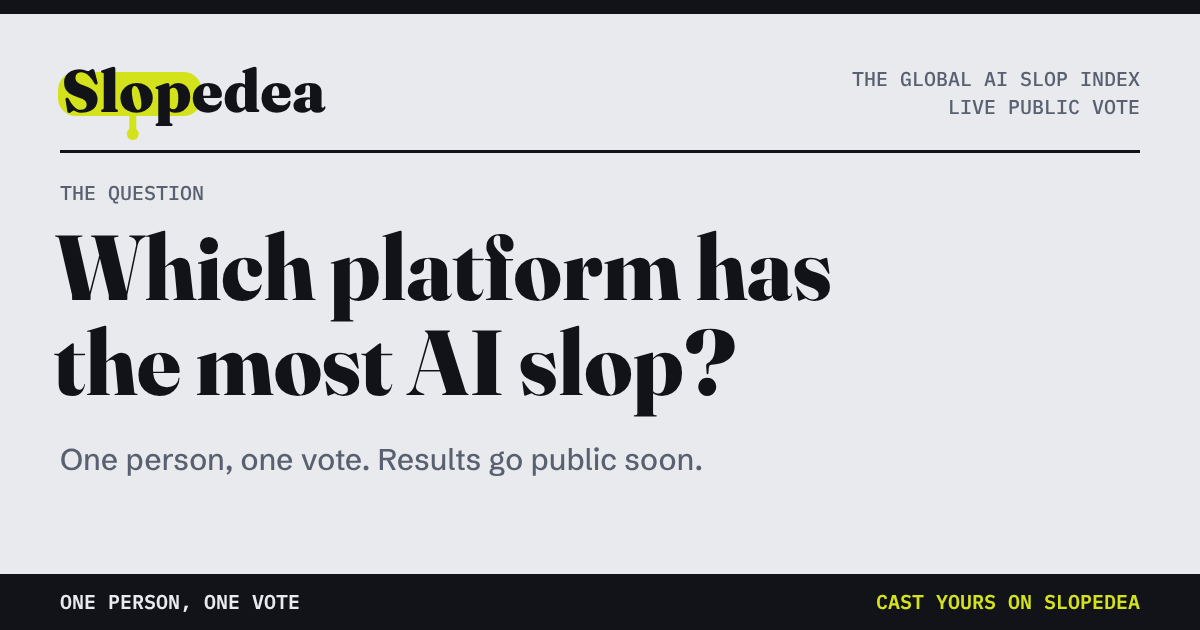
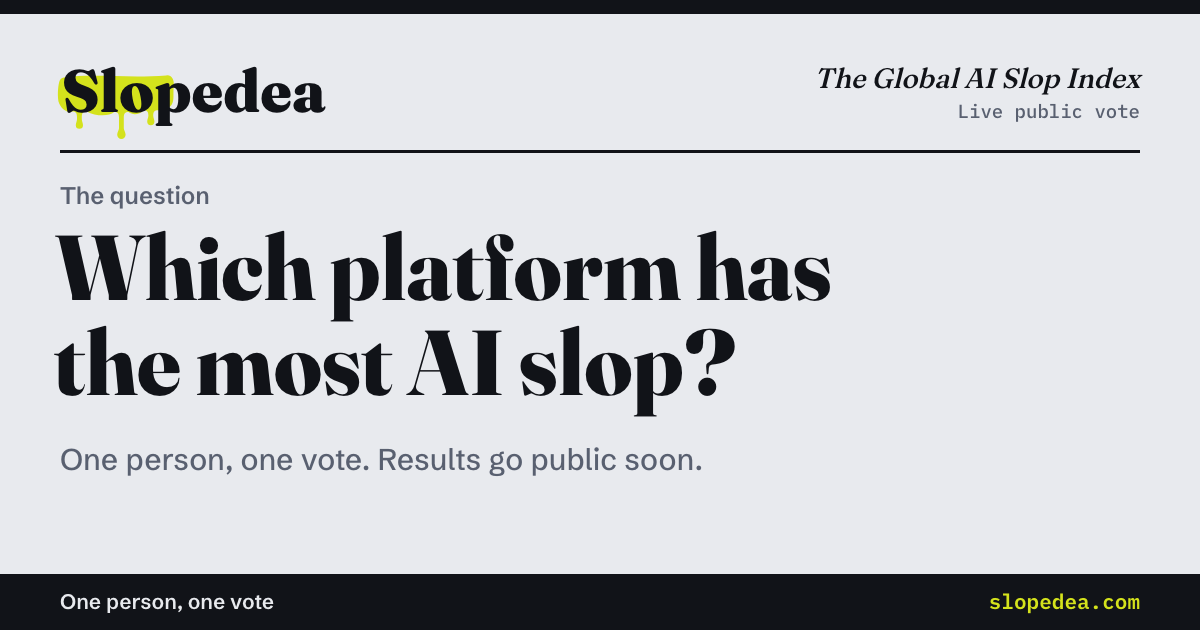
Instant voting, new share card, README header, footer star link
- Votes show at once and roll back with a message if the server rejects them
- Share card and og.png use the liquid wordmark and sentence-case labels
- README: transparent wordmark (light/dark), tagline, share card, what-it-is line
- Footer: its own Open source / Star it on GitHub line

diff --git a/public/index.html b/public/index.html
@@ -451,7 +451,7 @@ footer a { color: var(--ink); }
     <p><b>How the numbers work.</b> A platform's score is its share of all current votes. The arrows compare it with the count 24 hours ago. A snapshot is saved every hour.</p>
     <p><b>What we mean by slop.</b> Low-effort AI content made for reach, like generated posts, fake photos, bot replies and faceless video channels. This poll counts what people see in their feeds. It doesn't measure the platforms directly.</p>
   </footer>
-  <p class="contact">Ideas, press, or a platform we missed? Write to <a href="mailto:hello@slopedea.com">hello@slopedea.com</a>. A real person reads it. The code is open on <a href="https://github.com/itsmesherry/slopedea">GitHub</a>.<br>Slopedea isn't affiliated with any platform listed. Platform names are trademarks of their owners.</p>
+  <p class="contact">Ideas, press, or a platform we missed? Write to <a href="mailto:hello@slopedea.com">hello@slopedea.com</a>. A real person reads it.<br>Open source. <a href="https://github.com/itsmesherry/slopedea">Star it on GitHub ★</a><br>Slopedea isn't affiliated with any platform listed. Platform names are trademarks of their owners.</p>
 </main>
 
 <div class="toast" id="toast" role="status" aria-live="polite"></div>
@@ -731,7 +731,6 @@ function renderChart(pts, cur, revealed) {
 
 /* ---------- share card ---------- */
 let fontsReady = false, cardFile = null;
-function rr(c, x, y, w, h, r) { c.beginPath(); c.moveTo(x + r, y); c.arcTo(x + w, y, x + w, y + h, r); c.arcTo(x + w, y + h, x, y + h, r); c.arcTo(x, y + h, x, y, r); c.arcTo(x, y, x + w, y, r); c.closePath(); }
 function drawCard(now, cur) {
   const cv = $("#card"), c = cv.getContext("2d");
   const W = 1200, H = 630, INK = "#111318", MUTED = "#596070", SLOP = "#D4E21C", PAPER = "#E8EAEE", RULE = "#C9CED6";
@@ -740,24 +739,25 @@ function drawCard(now, cur) {
   c.fillStyle = PAPER; c.fillRect(0, 0, W, H);
   c.fillStyle = INK; c.fillRect(0, 0, W, 14);
   c.font = `850 60px ${disp}`;
-  const slopW = c.measureText("Slop").width;
-  c.fillStyle = SLOP; rr(c, 58, 72, slopW + 14, 44, 18); c.fill();
-  c.fillRect(58 + slopW * 0.55, 110, 7, 24); c.beginPath(); c.arc(61.5 + slopW * 0.55, 134, 6, 0, 7); c.fill();
+  // Same liquid shape as the wordmark: the .goo path is in 0.01em units, placed like the CSS does.
+  const goo = $(".goo path");
+  if (goo) { c.save(); c.translate(62 - 4.8, 112 - 37.2); c.scale(0.6, 0.6); c.fillStyle = SLOP; c.fill(new Path2D(goo.getAttribute("d"))); c.restore(); }
   c.fillStyle = INK; c.fillText("Slopedea", 62, 112);
-  c.textAlign = "right"; c.font = `500 20px ${mono}`; c.fillStyle = MUTED;
-  c.fillText("THE GLOBAL AI SLOP INDEX", W - 60, 86);
-  c.fillText(fmtLong(now).toUpperCase(), W - 60, 114);
+  c.textAlign = "right"; c.fillStyle = INK; c.font = `italic 500 28px ${disp}`;
+  c.fillText("The Global AI Slop Index", W - 60, 88);
+  c.font = `500 19px ${mono}`; c.fillStyle = MUTED;
+  c.fillText(fmtLong(now), W - 60, 118);
   c.textAlign = "left";
   c.fillStyle = INK; c.fillRect(60, 150, W - 120, 3);
   if (!cur.n) {
-    c.font = `500 20px ${mono}`; c.fillStyle = MUTED; c.fillText("THE QUESTION", 60, 200);
+    c.font = `600 24px ${body}`; c.fillStyle = MUTED; c.fillText("The question", 60, 204);
     c.fillStyle = INK; c.font = `820 92px ${disp}`;
     c.fillText("Which platform has", 54, 300);
     c.fillText("the most AI slop?", 54, 395);
     c.font = `500 30px ${body}`; c.fillStyle = MUTED; c.fillText("One person, one vote. Results go public soon.", 60, 470);
   } else {
     const lead = cur.order[0];
-    c.font = `500 20px ${mono}`; c.fillStyle = MUTED; c.fillText("SLOPPIEST PLATFORM RIGHT NOW", 60, 200);
+    c.font = `600 24px ${body}`; c.fillStyle = MUTED; c.fillText("Sloppiest platform right now", 60, 204);
     c.fillStyle = INK; c.font = `820 116px ${disp}`; c.fillText(P[lead].name, 54, 300);
     c.textAlign = "right"; c.font = `600 76px ${mono}`; c.fillText(pct(cur.s[lead]), W - 60, 300); c.textAlign = "left";
     const maxS = Math.max(1, cur.s[lead]);
@@ -772,9 +772,9 @@ function drawCard(now, cur) {
     });
   }
   c.fillStyle = INK; c.fillRect(0, H - 56, W, 56);
-  c.fillStyle = PAPER; c.font = `600 20px ${mono}`;
-  c.fillText(cur.n ? `${cur.n.toLocaleString()} VOTES · ONE PERSON, ONE VOTE` : "ONE PERSON, ONE VOTE", 60, H - 21);
-  c.textAlign = "right"; c.fillStyle = SLOP; c.fillText(location.host ? location.host.toUpperCase() : "CAST YOURS ON SLOPEDEA", W - 60, H - 21); c.textAlign = "left";
+  c.fillStyle = PAPER; c.font = `600 21px ${body}`;
+  c.fillText(cur.n ? `${cur.n.toLocaleString()} votes · One person, one vote` : "One person, one vote", 60, H - 21);
+  c.textAlign = "right"; c.fillStyle = SLOP; c.font = `600 21px ${mono}`; c.fillText("slopedea.com", W - 60, H - 21); c.textAlign = "left";
   // Made ahead of time: iOS drops the share sheet if the tap waits on toBlob.
   cv.toBlob((b) => { cardFile = b && new File([b], "slopedea-standings.png", { type: "image/png" }); }, "image/png");
 }
@@ -813,11 +813,17 @@ function botToken() {
 
 async function castVote(pid) {
   if (writing || ME.vote === pid) return;
-  writing = true; render();
+  // Optimistic: show the vote at once, then confirm in the background (the bot check
+  // plus the request take 1-2s). If the server says no, put everything back.
+  const prev = ME.vote, before = { S: S && structuredClone(S), ME: { ...ME } };
+  if (S) applyLocal(S, { prev, to: pid, t: Date.now() });
+  ME.vote = pid; writing = true; render();
+  toast(prev ? `Vote moved from ${P[prev].name} to ${P[pid].name}.` : `Vote cast for ${P[pid].name}. You can move it anytime after an hour.`);
+  const undo = (msg) => { S = before.S; ME = before.ME; toast(msg); };
   try {
     let token = null;
     try { token = await botToken(); }
-    catch { toast("The bot check didn't load. Refresh the page and try again."); return; }
+    catch { undo("The bot check didn't load. Refresh the page and try again."); return; }
     const r = await fetch("/api/vote", {
       method: "POST",
       credentials: "same-origin",
@@ -826,22 +832,19 @@ async function castVote(pid) {
     });
     const data = await r.json().catch(() => ({}));
     if (r.status === 429 && data.error === "cooldown") {
+      undo(`You can move your vote again in ${waitText(data.nextSwitchAt - Date.now())}.`);
       ME.nextSwitchAt = data.nextSwitchAt; ME.vote = data.vote || ME.vote;
-      toast(`You can move your vote again in ${waitText(data.nextSwitchAt - Date.now())}.`);
     } else if (r.status === 429 && data.error === "network_cap") {
-      toast("Your network has added a lot of votes today. Try again tomorrow.");
+      undo("Your network has added a lot of votes today. Try again tomorrow.");
     } else if (r.status === 403 && data.error === "bot_check_failed") {
-      toast("We couldn't confirm you're human. Refresh and try again.");
+      undo("We couldn't confirm you're human. Refresh and try again.");
     } else if (!r.ok) {
-      toast("Couldn't save your vote. Try again in a moment.");
+      undo("Couldn't save your vote. Try again in a moment.");
     } else {
-      const prev = data.previous;
-      if (S && prev !== pid) applyLocal(S, { prev, to: pid, t: Date.now() });
-      ME.vote = pid; ME.nextSwitchAt = data.nextSwitchAt;
-      toast(prev && prev !== pid ? `Vote moved from ${P[prev].name} to ${P[pid].name}.` : `Vote cast for ${P[pid].name}. You can move it anytime after an hour.`);
+      ME.nextSwitchAt = data.nextSwitchAt;
     }
   } catch {
-    toast("You seem to be offline. Your vote wasn't saved.");
+    undo("You seem to be offline. Your vote wasn't saved.");
   } finally { writing = false; render(); }
 }
 

diff --git a/README.md b/README.md
@@ -1,8 +1,11 @@
-<p align="center">
-  <a href="https://slopedea.com"><img src="public/favicon.svg" width="72" height="72" alt="Slopedea logo"></a>
-</p>
-
-<h1 align="center">Slopedea</h1>
+<h1 align="center">
+  <a href="https://slopedea.com">
+    <picture>
+      <source media="(prefers-color-scheme: dark)" srcset=".github/wordmark-dark.png">
+      <img src=".github/wordmark-light.png" width="400" alt="Slopedea">
+    </picture>
+  </a>
+</h1>
 
 <p align="center">
   The Global AI Slop Index.<br>
@@ -16,8 +19,10 @@
 </p>
 
 <p align="center">
-  <img src="public/og.png" width="720" alt="Slopedea share card showing the current standings">
+  <a href="https://slopedea.com"><img src="public/og.png" width="720" alt="Slopedea share card: Which platform has the most AI slop? One person, one vote."></a>
 </p>
+
+**Slopedea is a live public poll** on which social platform is most flooded with AI slop: generated posts, fake photos, bot replies, faceless video channels. Anyone can vote in one tap, without an account, and move their vote when their feed changes their mind. Results stay hidden until 100 votes are in, then update live with a two-week history.
 
 Runs entirely on Cloudflare's free plan: static site + one Worker + a D1 database.
 
